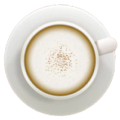
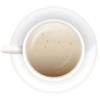
feat: Add DefaultLayout component, header, styles and more product images

diff --git a/src/components/Header/styles.ts b/src/components/Header/styles.ts
@@ -1,0 +1,39 @@
+import styled from "styled-components";
+
+export const HeaderContainer = styled.header`
+    display: flex;
+    flex-flow: row wrap;
+    justify-content: space-between;
+    align-items: center;
+    padding: 2rem 0;
+`
+
+
+export const HeaderNav = styled.nav`
+    display: flex;
+    flex-flow: row wrap;
+    justify-content: space-between;
+    align-items: center;
+    gap: .8rem;
+
+    a {
+        border-radius: 6px;
+        text-decoration: none;
+        display: flex;
+        align-items: center;
+        padding: .5rem;
+        gap: .3rem;
+        
+
+        &:first-child {
+            background-color: ${(props) => props.theme['purple-light']};
+            color: ${(props) => props.theme['purple-dark']}
+        }
+
+        &:last-child {
+            background-color: ${(props) => props.theme['yellow-light']};
+            color: ${(props) => props.theme['yellow-dark']}
+        }
+    }
+
+`

diff --git a/src/App.tsx b/src/App.tsx
@@ -1,20 +1,19 @@
-import products from './assets/products.json'
+import { ThemeProvider } from 'styled-components'
+import { Router } from './Router'
+import { defaultTheme } from './styles/themes/default'
+import { GlobalStyle } from './styles/global'
+import { BrowserRouter } from 'react-router-dom'
 
 function App() {
 
   return (
     <>
-      <section>
-        {products.map((product) => {
-          return (<div className="">
-            {product.name}
-            <img src={product.image_src}
-              alt={product.name}
-              title={product.name}
-            />
-          </div>)
-        })}
-      </section>
+      <ThemeProvider theme={defaultTheme}>
+        <BrowserRouter>
+          <Router />
+        </BrowserRouter>
+        <GlobalStyle />
+      </ThemeProvider>
     </>
   )
 }

diff --git a/src/components/Header/index.tsx b/src/components/Header/index.tsx
@@ -1,0 +1,21 @@
+import { MapPin, ShoppingCart } from "@phosphor-icons/react";
+import { NavLink } from "react-router-dom";
+import logo from '../../assets/img/logo.svg';
+import { HeaderContainer, HeaderNav } from "./styles";
+
+export function Header() {
+    return (
+        <HeaderContainer>
+            <img src={logo} alt="Logo" />
+            <HeaderNav>
+                <NavLink to="/">
+                    <MapPin weight="fill" size={22} />
+                    <span>Porto Alegre, RS</span>
+                </NavLink>
+                <NavLink to="/">
+                    <ShoppingCart weight="fill" size={22} />
+                </NavLink>
+            </HeaderNav>
+        </HeaderContainer>
+    )
+}

diff --git a/src/styles/global.ts b/src/styles/global.ts
@@ -14,8 +14,8 @@ export const GlobalStyle = createGlobalStyle`
     }
 
     body{
-        background-color: ${(props) => props.theme['gray-900']};
-        color: ${(props) => props.theme['gray-300']};
+        background-color: ${(props) => props.theme['white']};
+        color: ${(props) => props.theme['base-text']};
         -webkit-font-smoothing: antialiased;
     }
 
@@ -31,7 +31,7 @@ export const GlobalStyle = createGlobalStyle`
         font-weight: 400;
         font-style: normal;
     }
-    
+
     .baloo-2--extra-bold {
         font-family: "Baloo 2", sans-serif;
         font-optical-sizing: auto;

diff --git a/src/Router.tsx b/src/Router.tsx
@@ -1,0 +1,13 @@
+import { Route, Routes } from "react-router-dom";
+import { DefaultLayout } from "./layouts/DefaultLayout";
+import { Home } from "./pages/Home";
+
+export function Router() {
+    return (
+        <Routes>
+            <Route path="/" element={<DefaultLayout />}>
+                <Route path="/" element={<Home />} />
+            </Route>
+        </Routes>
+    )
+}

diff --git a/src/layouts/DefaultLayout/index.tsx b/src/layouts/DefaultLayout/index.tsx
@@ -1,7 +1,12 @@
 import { Outlet } from "react-router-dom";
+import { LayoutContainer } from './styles'
+import { Header } from "../../components/Header";
 
 export function DefaultLayout() {
     return (
-        <Outlet />
+        <LayoutContainer>
+            <Header />
+            <Outlet />
+        </LayoutContainer>
     )
 }

diff --git a/src/layouts/DefaultLayout/styles.ts b/src/layouts/DefaultLayout/styles.ts
@@ -1,6 +1,8 @@
 import styled from "styled-components";
 
-
 export const LayoutContainer = styled.div`
-    max-width: 74rem; 
+    max-width: 90rem;
+    width: 100%;
+    margin: 0 auto;
+    padding: 0 10rem;
 `

diff --git a/src/pages/Home/index.tsx b/src/pages/Home/index.tsx
@@ -1,0 +1,5 @@
+export function Home() {
+    return (
+        <h1>Home</h1>
+    )
+}
